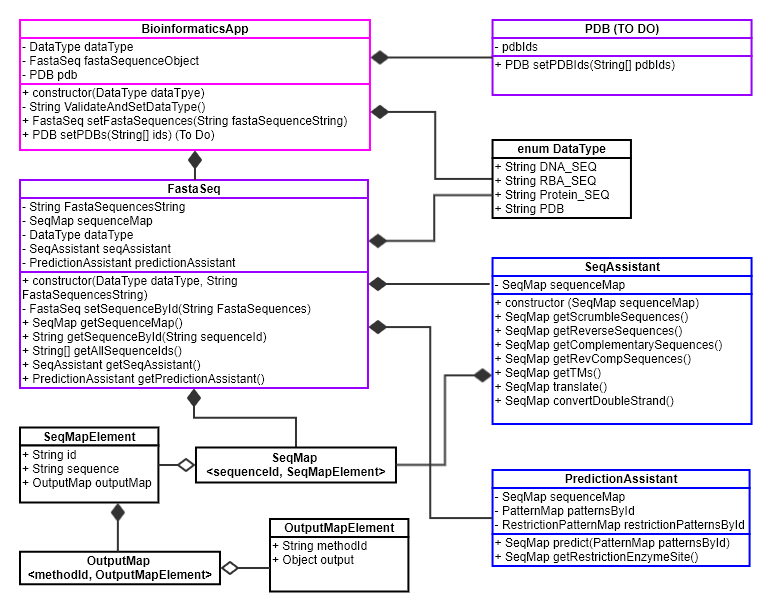
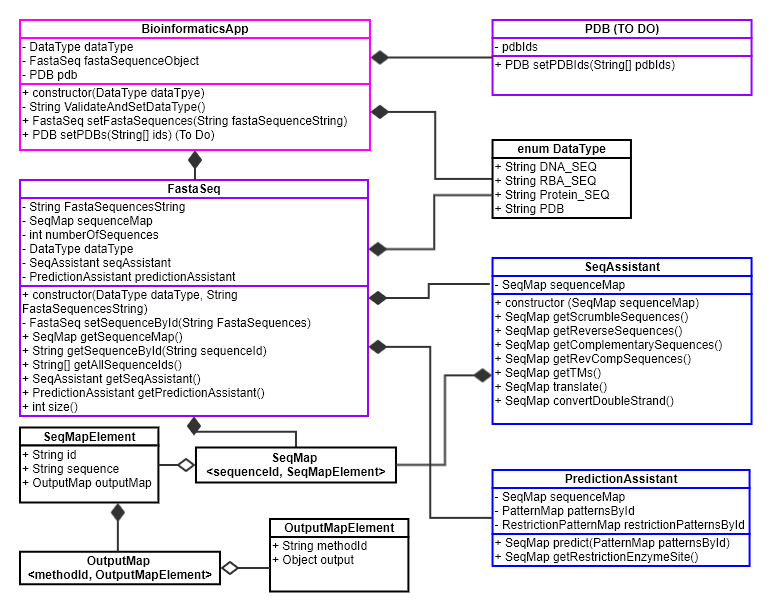
BH-010 added size() method in FastaSeq object

Changed region(s): [[0.031, 0.3732, 0.5589, 0.7152], [0.4657, 0.5286, 0.5589, 0.5908], [0.5589, 0.8396, 0.621, 0.8707]]

diff --git a/src/fasta/FastaSeq.js b/src/fasta/FastaSeq.js
@@ -34,7 +34,7 @@ class FastaSeq {
       // First line must start with ">" followed by sequence Id. Otherwize this fasta sequence unit 
       // do not have an id, and we want to give a id called "Unnamed sequence " + unnamedSeqIndex;
       if (lineArray[0].trim().charAt(0) === ">" && lineArray[0].trim().length > 1) { // key is available
-        sequenceId = lineArray[0].trim().substring(1);        
+        sequenceId = lineArray[0].trim().substring(1);     
       } else { // key is not available
         sequenceId = "Unnamed sequence " + unnamedSeqIndex;
         unnamedSeqIndex++;
@@ -62,12 +62,19 @@ class FastaSeq {
 
   /**
    * Gets all sequence Ids from the input FASTA string (file).
-   * @returns {array} an array of sequence Ids.
+   * @returns {Array} an array of sequence Ids.
    */
   getAllSequenceIds() {
     const sequenceIds = [];
     for (const key of this.seqMap.keys()) sequenceIds.push(key);
     return sequenceIds;
+  }
+
+  /**
+   * Returns {Integer} the number of individual sequences saved into the FastaSeq object.
+   */
+  size() {
+    return this.getAllSequenceIds().length;
   }
 }
 

diff --git a/test/fasta/FastaSeq.test.js b/test/fasta/FastaSeq.test.js
@@ -52,5 +52,6 @@ test("test methods in FastSeq if input FASTA string is not blank or empty", () =
     
     // assert getAllsequenceId() method return all sequence Ids.
     expect(fastaSeqObj.getAllSequenceIds().sort()).toEqual(expectedSequenceIds.sort());
+    expect(fastaSeqObj.size()).toBe(3);
   });
 });
